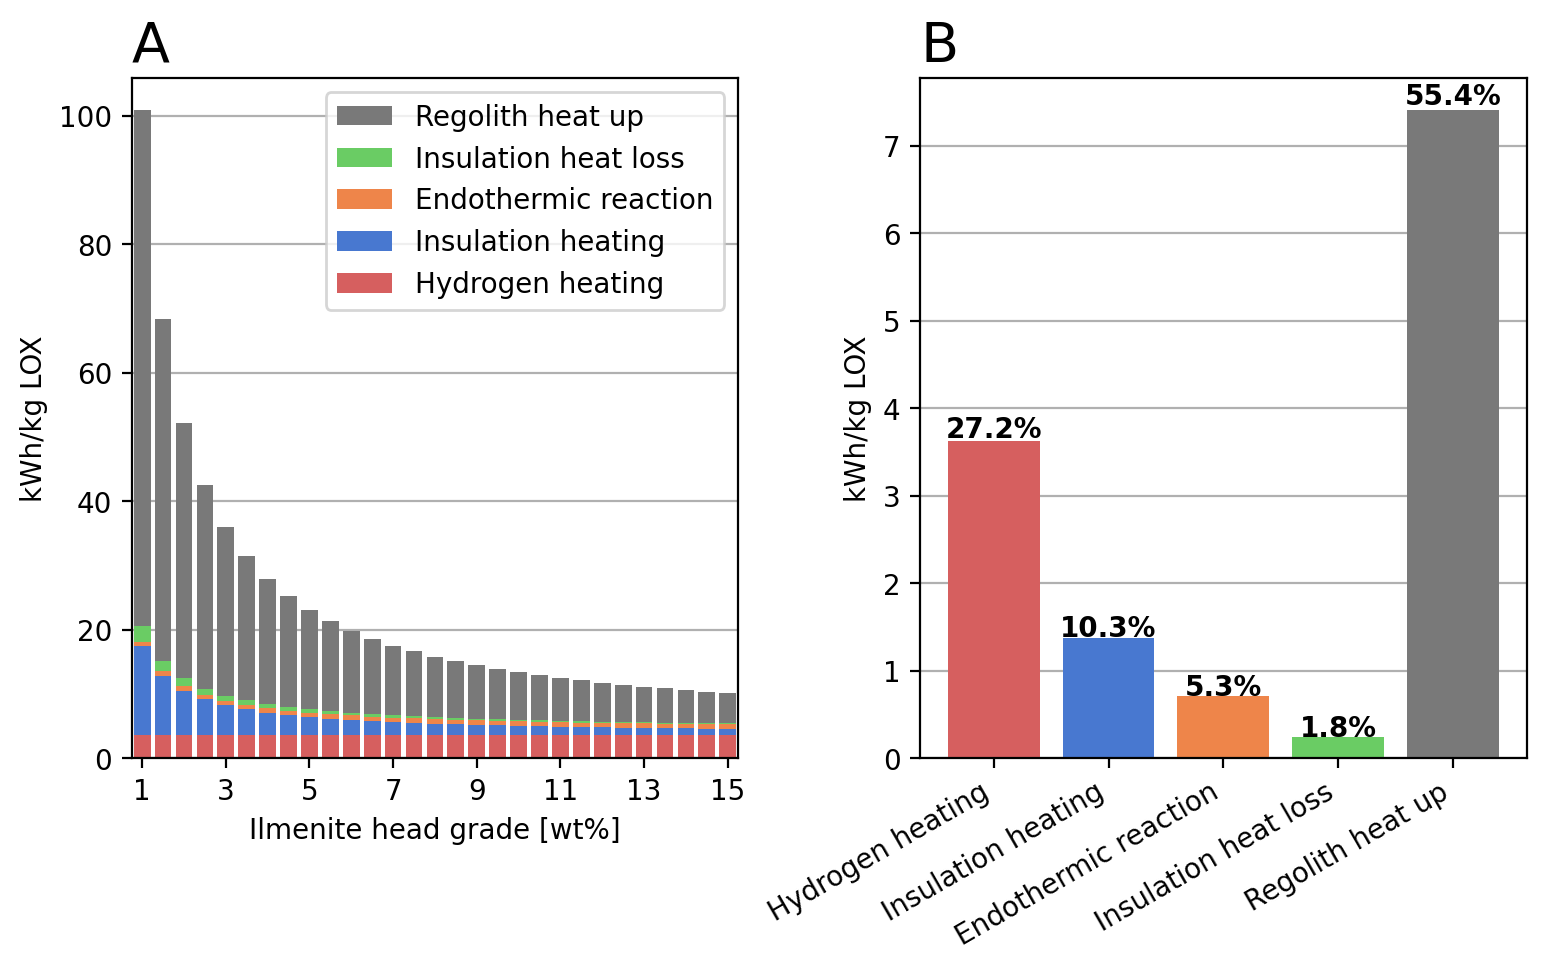
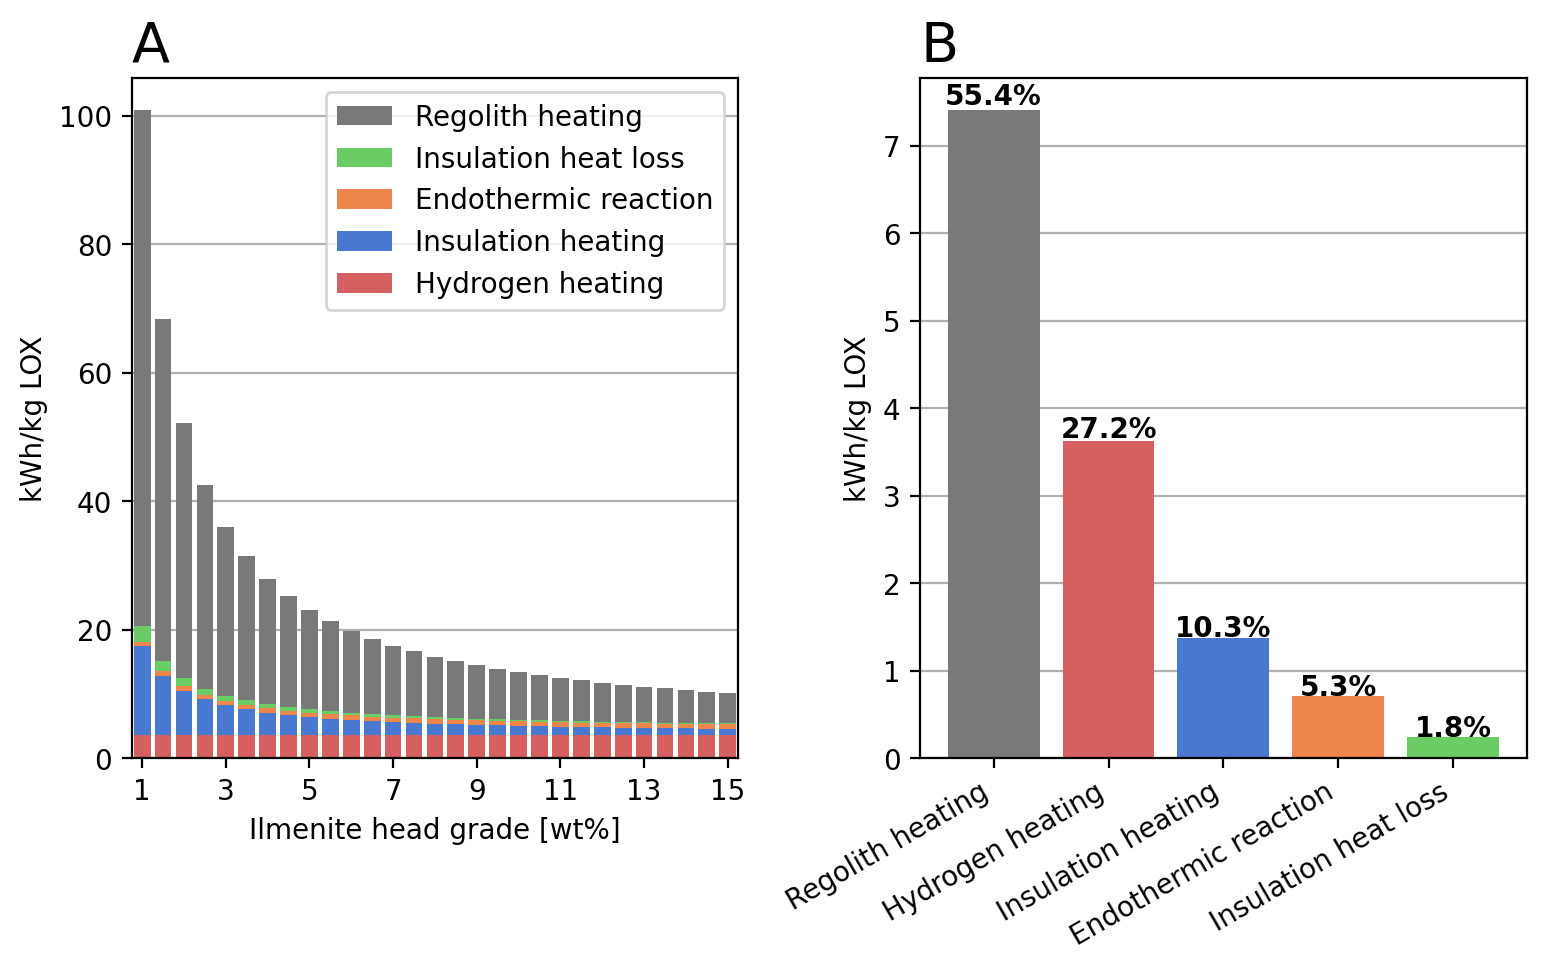
Changed order of the reactor energy bars

diff --git a/space_resources/energy_comparison_plots.py b/space_resources/energy_comparison_plots.py
@@ -107,16 +107,19 @@ ax2.legend([handles[idx] for idx in order],[labels[idx] for idx in order])
 
 '================================Color palette and lists for bar plot (reactor energy)================================'
 reactor_energy_sinks = ["Hydrogen heating", "Insulation heating",
-                        "Endothermic reaction", "Insulation heat loss", "Regolith heat up"]
-reactor_energies = [energy_to_heat_hydrogen_at_10_perc_ilm, total_energy_to_heat_insulation_at_10_perc_ilm,
-                    energy_endothermic_ilmenite_H2_reaction_at_10_perc_ilm, Q_total_lost_at_10_perc_ilm, energy_to_heat_regolith_batch_at_10_perc_ilm]
+                        "Endothermic reaction", "Insulation heat loss", "Regolith heating"]
+reactor_energy_sinks_bar_plot = ["Regolith heating", "Hydrogen heating", "Insulation heating",
+                        "Endothermic reaction", "Insulation heat loss"]
+reactor_energies = [energy_to_heat_regolith_batch_at_10_perc_ilm, energy_to_heat_hydrogen_at_10_perc_ilm, total_energy_to_heat_insulation_at_10_perc_ilm,
+                    energy_endothermic_ilmenite_H2_reaction_at_10_perc_ilm, Q_total_lost_at_10_perc_ilm]
 reactor_colors = [muted[3],muted[0],muted[1],muted[2],muted[7]]
+reactor_colors_bar_plot = [muted[7],muted[3],muted[0],muted[1],muted[2]]
 sum_energy_reactor = np.sum(reactor_energies)
 labels_reactor = np.round(reactor_energies/sum_energy_reactor*100, 1)
 
 
 '==============================================bar plot (reactor energy)=============================================='
-p3 = ax3.bar(reactor_energy_sinks, reactor_energies, color = reactor_colors)
+p3 = ax3.bar(reactor_energy_sinks_bar_plot, reactor_energies, color = reactor_colors_bar_plot)
 
 '==================================plot options and labels bar plot (reactor energy)=================================='
 ax3.grid(axis="y")
